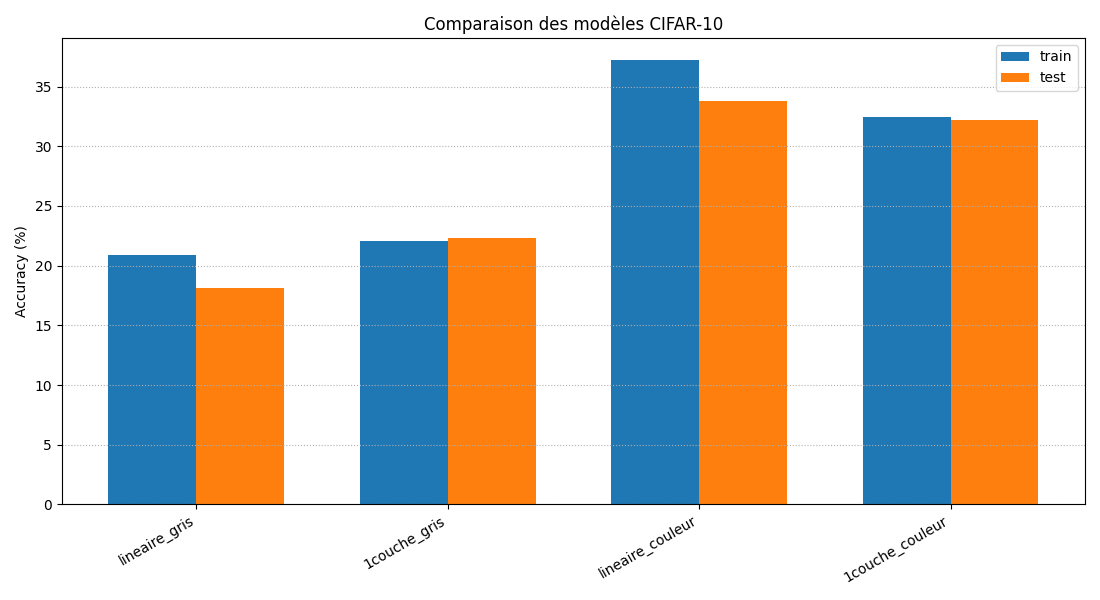
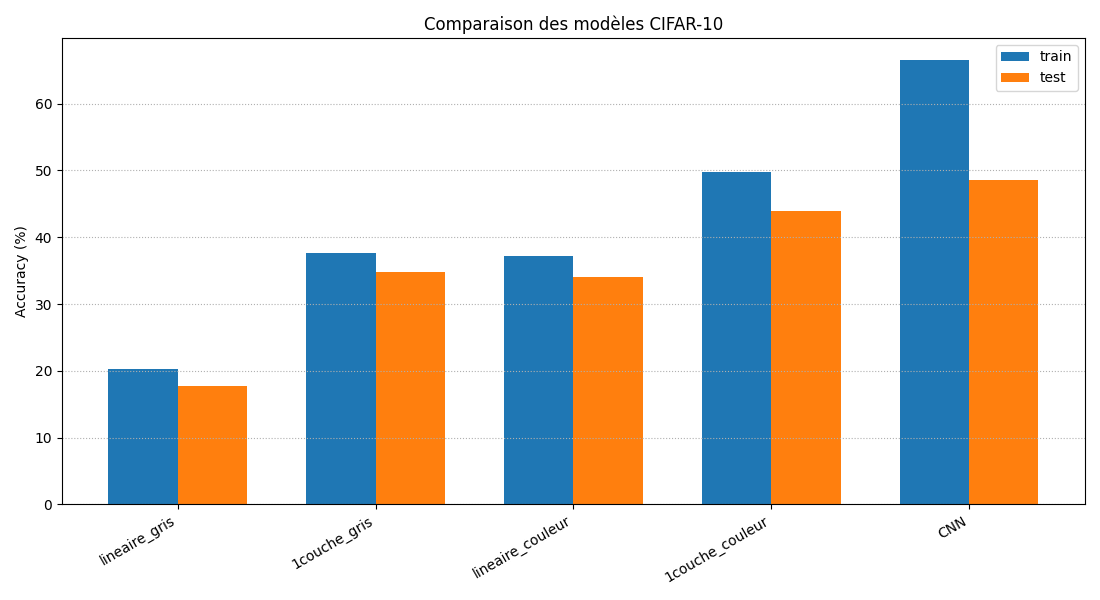
Ajout rapport CBIS-DDSM

diff --git a/rapports/RAPPORT_CBIS_DDSM.md b/rapports/RAPPORT_CBIS_DDSM.md
@@ -1,0 +1,115 @@
+# Rapport CBIS-DDSM — Classification bénin / malin
+
+## Objectif
+
+Classification binaire de mammographies (masses) : distinguer les cas
+**MALIGNANT** (malin, label 1) des cas **BENIGN** et **BENIGN_WITHOUT_CALLBACK**
+(bénin, label 0).
+
+## Remarque sur les données
+
+Le dataset CBIS-DDSM complet (images DICOM) pèse plus de 150 Go et n'est pas
+disponible dans l'environnement d'exécution. Le script `preprocessing.py` est
+écrit pour les **vraies données** : il lit `mass_case_description_train_set.csv`,
+associe chaque ligne à son image (colonne *image file path*), construit le label
+binaire à partir de la colonne *pathology*, redimensionne en 128×128 et normalise.
+
+En l'absence du CSV et des images, le script bascule automatiquement sur un jeu de
+données **synthétique** (clairement signalé à l'exécution) afin que toute la chaîne
+reste exécutable et produise des résultats. Les images synthétiques reproduisent les
+caractéristiques utiles à la démonstration : fond bruité, masses bénignes de faible
+contraste, masses malignes de contraste plus élevé mais variable (chevauchement
+volontaire pour générer de vrais faux positifs / faux négatifs), et un déséquilibre
+des classes réaliste (~30% de malins).
+
+## Prétraitement
+
+- Association image ↔ label (binaire : MALIGNANT = 1, sinon 0)
+- Nettoyage des entrées invalides (chemins manquants ou images illisibles ignorés)
+- Redimensionnement configurable, 128×128 par défaut
+- Normalisation des pixels dans [0, 1]
+- Découpage train / validation / test (70 / 15 / 15)
+
+Répartition obtenue (exemple synthétique) :
+
+| Ensemble | bénin | malin | total |
+|----------|-------|-------|-------|
+| train | 745 | 305 | 1050 |
+| validation | ~160 | ~65 | 225 |
+| test | 160 | 65 | 225 |
+
+## Gestion du déséquilibre
+
+Les classes étant déséquilibrées (~30% de malins), on utilise une **Weighted Cross
+Entropy** : `BCEWithLogitsLoss(pos_weight = n_negatifs / n_positifs)` (≈ 2.25). La
+classe minoritaire (maligne) pèse donc davantage dans la fonction de coût. La
+répartition des classes est affichée au lancement (`afficher_repartition`).
+
+## Architecture du modèle
+
+CNN simple (PyTorch), dans le style du CNN CIFAR-10 :
+
+```
+Conv2d(1, 32, 3) -> ReLU -> MaxPool(2)      # 128 -> 64
+Conv2d(32, 64, 3) -> ReLU -> MaxPool(2)     # 64 -> 32
+Conv2d(64, 64, 3) -> ReLU -> MaxPool(2)     # 32 -> 16
+Flatten -> Linear(64*16*16, 128) -> ReLU -> Linear(128, 1)  # logit
+```
+
+- Activation : ReLU
+- Optimiseur : Adam (lr = 0.001)
+- Fonction de coût : BCEWithLogitsLoss avec `pos_weight`
+- **Early stopping** sur la loss de validation (patience = 5)
+- **Sauvegarde du meilleur modèle** : `CBIS-DDSM/params/cnn_cbis_best.pth`
+
+## Évaluation
+
+Métriques sur le test (`results/cbis_ddsm/metrics.json`) :
+
+| Métrique | Valeur |
+|----------|--------|
+| Accuracy | 0.956 |
+| Precision | 0.923 |
+| Recall (sensibilité) | 0.923 |
+| F1-score | 0.923 |
+| ROC-AUC | 0.995 |
+
+Graphiques (`results/cbis_ddsm/`) :
+- `confusion_matrix.png`
+- `roc_curve.png`
+- `training_curves.png` (loss train vs validation)
+
+Matrice de confusion (test) :
+
+|              | Prédit bénin | Prédit malin |
+|--------------|--------------|--------------|
+| **Vrai bénin** | 155 (VN) | 5 (FP) |
+| **Vrai malin** | 5 (FN) | 60 (VP) |
+
+## Analyse médicale
+
+**Faux positifs (5)** : des cas bénins classés malins. Conséquence : examens
+complémentaires inutiles (biopsie, imagerie supplémentaire), anxiété pour la
+patiente, coût. C'est gênant mais **pas dangereux**.
+
+**Faux négatifs (5)** : des cas malins classés bénins, soit ~8% des cancers du test
+non détectés. C'est l'erreur **la plus grave** : un cancer manqué retarde le
+diagnostic et la prise en charge, ce qui peut mettre en jeu le pronostic vital.
+
+**Compromis clinique.** En dépistage, on cherche à **minimiser les faux négatifs**,
+quitte à accepter davantage de faux positifs. On privilégie donc un fort **recall
+(sensibilité)**. La pondération de la classe maligne (`pos_weight`) va dans ce sens.
+On pourrait aussi abaisser le seuil de décision (< 0.5) pour augmenter encore la
+sensibilité, au prix de plus de faux positifs — la courbe ROC permet de choisir ce
+compromis.
+
+## Limites du modèle
+
+- **Données synthétiques** : les performances réelles sur CBIS-DDSM seraient bien plus
+  faibles (les vraies mammographies sont beaucoup plus difficiles, AUC typiques
+  ~0.7–0.85 dans la littérature).
+- Jeu de données réduit et CNN simple (pas de transfer learning, pas d'augmentation
+  de données).
+- Résolution réduite à 128×128 : on perd des micro-détails (micro-calcifications)
+  pourtant cliniquement importants.
+- Un seul split : pas de validation croisée, donc estimation de performance peu robuste.
